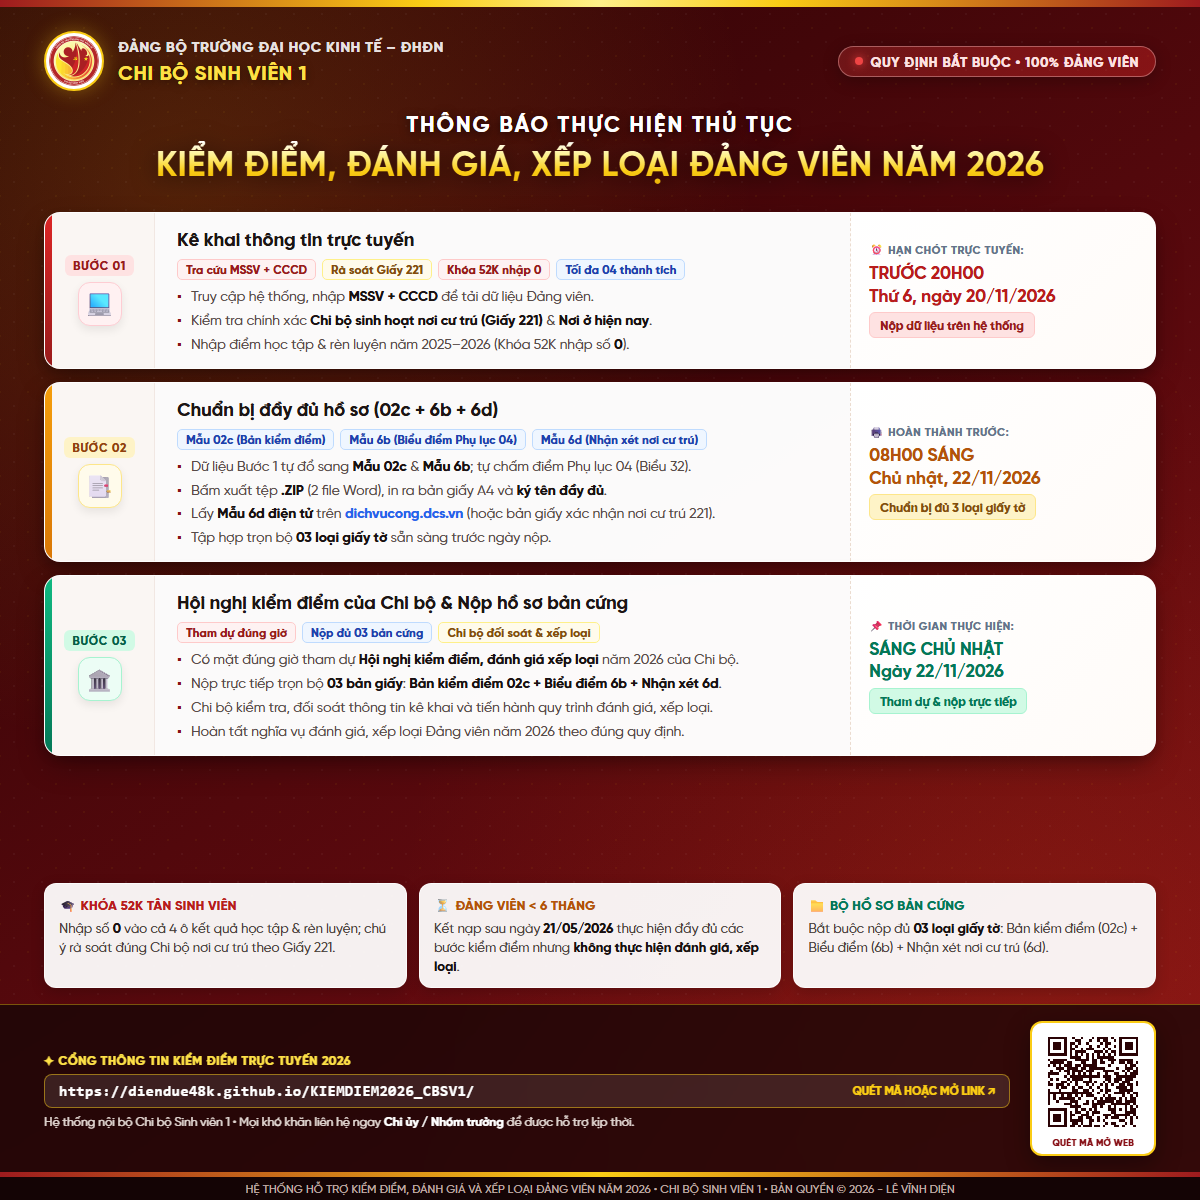
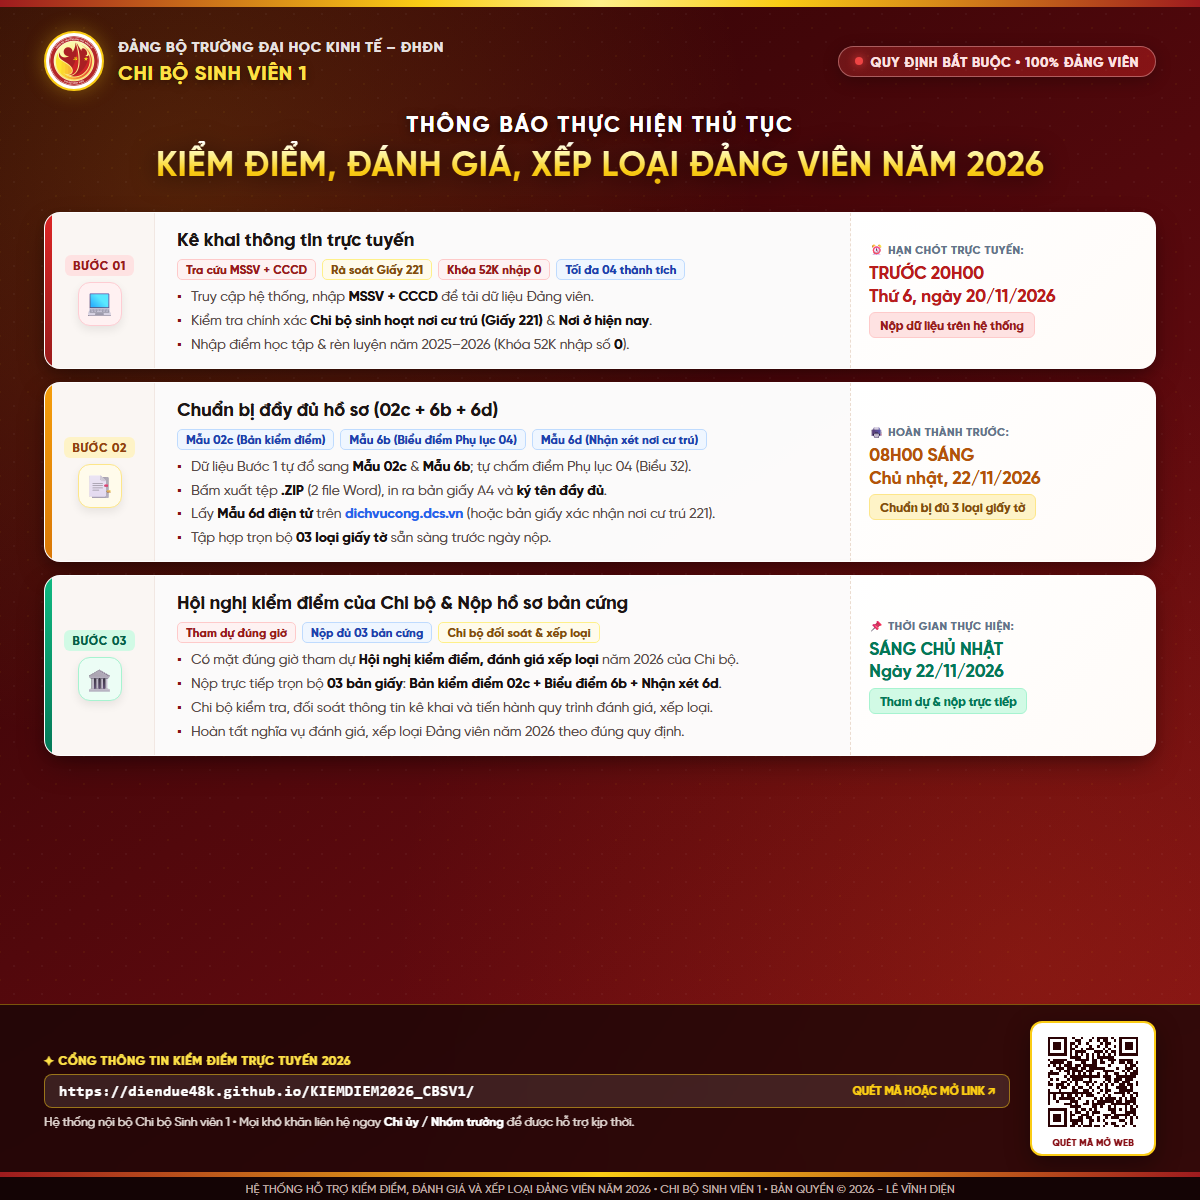
chore(poster): remove bottom 3 note cards

Changed region(s): [[0.0308, 0.7092, 0.9867, 0.8325]]

diff --git a/poster-yeu-cau.html b/poster-yeu-cau.html
@@ -812,21 +812,6 @@
 
           </div>
 
-          <!-- 3 THẺ LƯU Ý PHÍA DƯỚI -->
-          <div class="notes-grid">
-            <div class="note-card">
-              <div class="note-head">🎓 Khóa 52K tân sinh viên</div>
-              <div class="note-content">Nhập số <strong>0</strong> vào cả 4 ô kết quả học tập &amp; rèn luyện; chú ý rà soát đúng Chi bộ nơi cư trú theo Giấy 221.</div>
-            </div>
-            <div class="note-card">
-              <div class="note-head">⏳ Đảng viên &lt; 6 tháng</div>
-              <div class="note-content">Kết nạp sau ngày <strong>21/05/2026</strong> thực hiện đầy đủ các bước kiểm điểm nhưng <strong>không thực hiện đánh giá, xếp loại</strong>.</div>
-            </div>
-            <div class="note-card">
-              <div class="note-head">📁 Bộ hồ sơ bản cứng</div>
-              <div class="note-content">Bắt buộc nộp đủ <strong>03 loại giấy tờ</strong>: Bản kiểm điểm (02c) + Biểu điểm (6b) + Nhận xét nơi cư trú (6d).</div>
-            </div>
-          </div>
         </div>
 
         <!-- FOOTER POSTER -->
